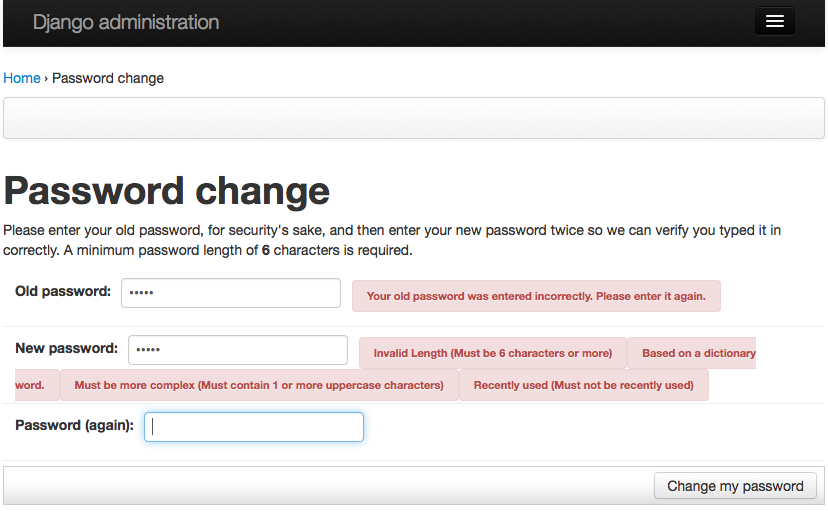
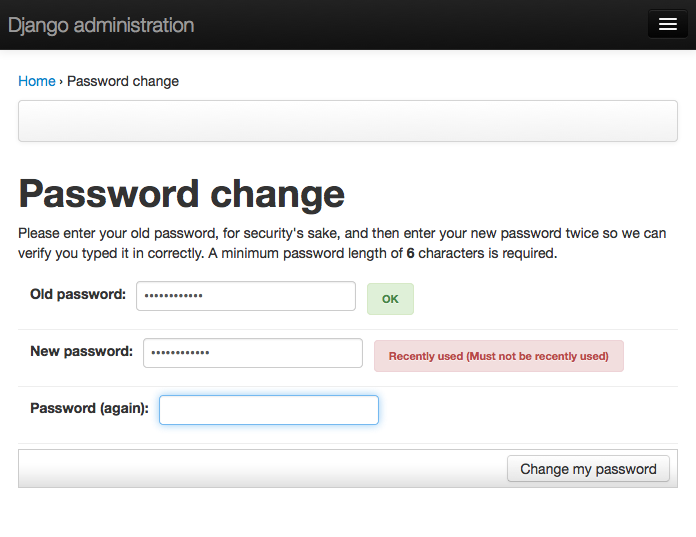
Update screenshot, comment out complexity check

diff --git a/django_pci_auth/settings.py b/django_pci_auth/settings.py
@@ -139,15 +139,15 @@ OLD_PASSWORD_STORAGE_NUM = 4
 
 # django-passwords defaults
 PASSWORD_MIN_LENGTH = 6 # Defaults to 6
-PASSWORD_MAX_LENGTH = 120 # Defaults to None
-PASSWORD_DICTIONARY = "/usr/share/dict/words" # Defaults to None
-PASSWORD_MATCH_THRESHOLD = 0.9 # Defaults to 0.9, should be 0.0 - 1.0 where 1.0 means exactly the same.
-PASSWORD_COMMON_SEQUENCES = [] # Should be a list of strings, see passwords/validators.py for default
-PASSWORD_COMPLEXITY = { # You can ommit any or all of these for no limit for that particular set
-    "UPPER": 1,       # Uppercase
-    "LOWER": 1,       # Lowercase
-    "DIGITS": 1,      # Digits
-    "PUNCTUATION": 1, # Punctuation (string.punctuation)
-    "NON ASCII": 1,   # Non Ascii (ord() >= 128)
-    "WORDS": 1        # Words (substrings seperates by a whitespace)
-}
+#PASSWORD_MAX_LENGTH = 120 # Defaults to None
+#PASSWORD_DICTIONARY = "/usr/share/dict/words" # Defaults to None
+#PASSWORD_MATCH_THRESHOLD = 0.9 # Defaults to 0.9, should be 0.0 - 1.0 where 1.0 means exactly the same.
+#PASSWORD_COMMON_SEQUENCES = [] # Should be a list of strings, see passwords/validators.py for default
+#PASSWORD_COMPLEXITY = { # You can ommit any or all of these for no limit for that particular set
+#    "UPPER": 1,       # Uppercase
+#    "LOWER": 1,       # Lowercase
+#    "DIGITS": 1,      # Digits
+#    "PUNCTUATION": 1, # Punctuation (string.punctuation)
+#    "NON ASCII": 1,   # Non Ascii (ord() >= 128)
+#    "WORDS": 1        # Words (substrings seperates by a whitespace)
+#}
